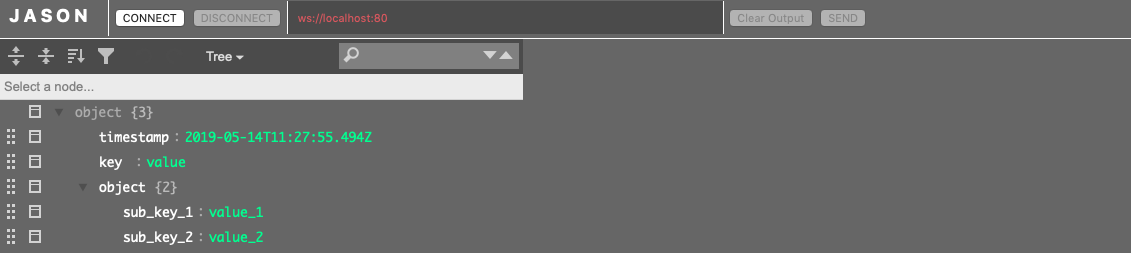
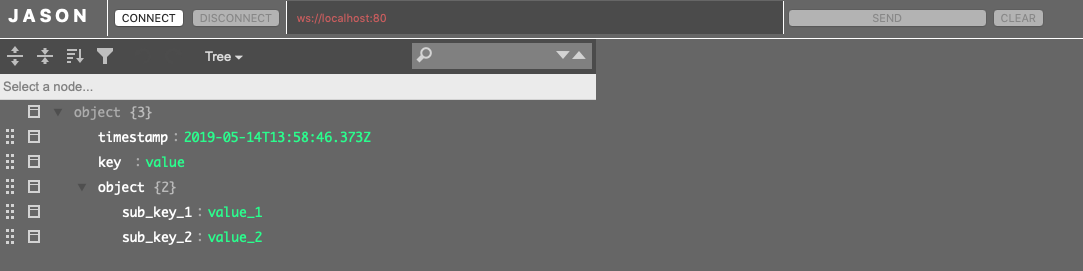
Button Adjustments

Changed region(s): [[0.0, 0.0, 1.0, 0.9684]]

diff --git a/JASON.html b/JASON.html
@@ -24,7 +24,7 @@
 	Copyright (c) 2019 HuemerGroup
 	
 	@author  Oskar Kruschitz	https://github.com/hiiamok
-	@version 1.0.1
+	@version 1.0.2
 	@date    2019-05-14
 
 -->
@@ -45,8 +45,8 @@
 		<input type="button" id="connectBtn" value="CONNECT" onclick="connect()" />
 		<input type="button" id="disconnectBtn" value="DISCONNECT" onclick="closeSocket()" disabled="true" />
 		<input type="text" id="address" value="ws://localhost:80" />
-		<input type="button" id="clearBtn" value="Clear Output" onclick="clearOutput()" disabled="true" />
-		<input type="button" id="sendBtn" value="SEND" onclick="send()" disabled="true" />
+		<input type="button" id="sendBtn" value="SEND" onclick="send()" disabled="true" style="width:10%;" />
+		<input type="button" id="clearBtn" value="CLEAR" onclick="clearOutput()" disabled="true" />
 	</div>
 	<div id="container">
 		<div id="jsonInput"></div>
